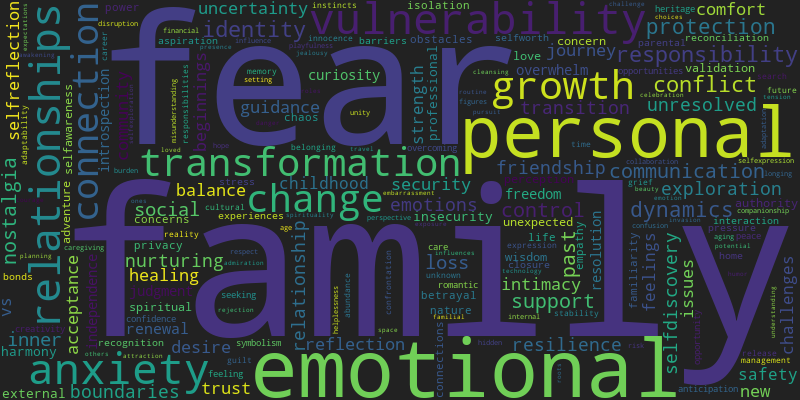
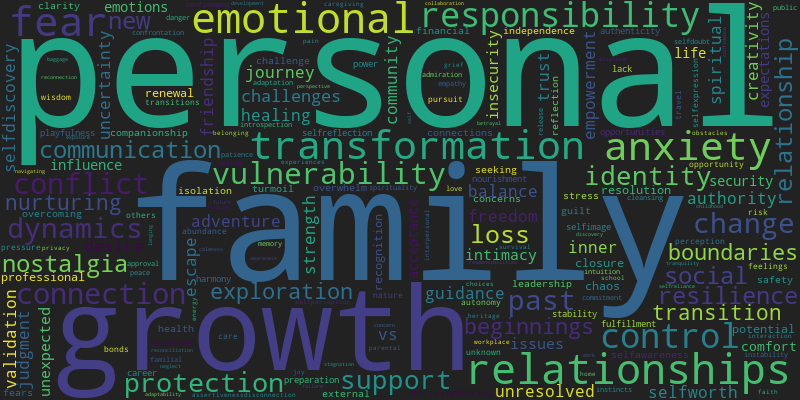
Add files via upload

diff --git a/index.html b/index.html
@@ -1,6 +1,6 @@
 <div style="padding-top: 50px;"></div>
 <h1 style="text-align:center;">Dreamverse State</h1>
-<h2 style="text-align:center;">November 30, 2024</h2>
+<h2 style="text-align:center;">December 31, 2024</h2>
 <div style="padding: 80px;"><html>
     <head>
         <meta charset="utf-8">
@@ -91,8 +91,8 @@
                   
 
                   // parsing and collecting nodes and edges from the python
-                  nodes = new vis.DataSet([{"color": "#CEB637", "font": {"color": "white"}, "id": "nostalgia", "label": "nostalgia", "shape": "dot", "title": "nostalgia"}, {"color": "#CEB637", "font": {"color": "white"}, "id": "aging", "label": "aging", "shape": "dot", "title": "aging"}, {"color": "#CEB637", "font": {"color": "white"}, "id": "reflection", "label": "reflection", "shape": "dot", "title": "reflection"}, {"color": "#CEB637", "font": {"color": "white"}, "id": "friendship", "label": "friendship", "shape": "dot", "title": "friendship"}, {"color": "#46CC15", "font": {"color": "white"}, "id": "vulnerability", "label": "vulnerability", "shape": "dot", "title": "vulnerability"}, {"color": "#C4A4A4", "font": {"color": "white"}, "id": "balance", "label": "balance", "shape": "dot", "title": "balance"}, {"color": "#C4A4A4", "font": {"color": "white"}, "id": "harmony", "label": "harmony", "shape": "dot", "title": "harmony"}, {"color": "#E84917", "font": {"color": "white"}, "id": "personal growth", "label": "personal growth", "shape": "dot", "title": "personal growth"}, {"color": "#E84917", "font": {"color": "white"}, "id": "transformation", "label": "transformation", "shape": "dot", "title": "transformation"}, {"color": "#E84917", "font": {"color": "white"}, "id": "selfdiscovery", "label": "selfdiscovery", "shape": "dot", "title": "selfdiscovery"}, {"color": "#E84917", "font": {"color": "white"}, "id": "past relationships", "label": "past relationships", "shape": "dot", "title": "past relationships"}, {"color": "#E84917", "font": {"color": "white"}, "id": "identity", "label": "identity", "shape": "dot", "title": "identity"}, {"color": "#10C3CB", "font": {"color": "white"}, "id": "transition", "label": "transition", "shape": "dot", "title": "transition"}, {"color": "#46CC15", "font": {"color": "white"}, "id": "boundaries", "label": "boundaries", "shape": "dot", "title": "boundaries"}, {"color": "#10C3CB", "font": {"color": "white"}, "id": "fear", "label": "fear", "shape": "dot", "title": "fear"}, {"color": "#10C3CB", "font": {"color": "white"}, "id": "control", "label": "control", "shape": "dot", "title": "control"}, {"color": "#10C3CB", "font": {"color": "white"}, "id": "protection", "label": "protection", "shape": "dot", "title": "protection"}, {"color": "#46CC15", "font": {"color": "white"}, "id": "relationships", "label": "relationships", "shape": "dot", "title": "relationships"}, {"color": "#10C3CB", "font": {"color": "white"}, "id": "family", "label": "family", "shape": "dot", "title": "family"}, {"color": "#10C3CB", "font": {"color": "white"}, "id": "anxiety", "label": "anxiety", "shape": "dot", "title": "anxiety"}, {"color": "#46CC15", "font": {"color": "white"}, "id": "betrayal", "label": "betrayal", "shape": "dot", "title": "betrayal"}, {"color": "#46CC15", "font": {"color": "white"}, "id": "insecurity", "label": "insecurity", "shape": "dot", "title": "insecurity"}, {"color": "#46CC15", "font": {"color": "white"}, "id": "exploration", "label": "exploration", "shape": "dot", "title": "exploration"}, {"color": "#46CC15", "font": {"color": "white"}, "id": "family dynamics", "label": "family dynamics", "shape": "dot", "title": "family dynamics"}, {"color": "#46CC15", "font": {"color": "white"}, "id": "trust", "label": "trust", "shape": "dot", "title": "trust"}, {"color": "#46CC15", "font": {"color": "white"}, "id": "communication", "label": "communication", "shape": "dot", "title": "communication"}, {"color": "#E84917", "font": {"color": "white"}, "id": "renewal", "label": "renewal", "shape": "dot", "title": "renewal"}, {"color": "#E84917", "font": {"color": "white"}, "id": "change", "label": "change", "shape": "dot", "title": "change"}, {"color": "#A8FF41", "font": {"color": "white"}, "id": "responsibility", "label": "responsibility", "shape": "dot", "title": "responsibility"}, {"color": "#A8FF41", "font": {"color": "white"}, "id": "nurturing", "label": "nurturing", "shape": "dot", "title": "nurturing"}, {"color": "#A8FF41", "font": {"color": "white"}, "id": "new beginnings", "label": "new beginnings", "shape": "dot", "title": "new beginnings"}, {"color": "#A8FF41", "font": {"color": "white"}, "id": "growth", "label": "growth", "shape": "dot", "title": "growth"}, {"color": "#E88175", "font": {"color": "white"}, "id": "intimacy", "label": "intimacy", "shape": "dot", "title": "intimacy"}, {"color": "#CEB637", "font": {"color": "white"}, "id": "support", "label": "support", "shape": "dot", "title": "support"}, {"color": "#CEB637", "font": {"color": "white"}, "id": "community", "label": "community", "shape": "dot", "title": "community"}, {"color": "#CEB637", "font": {"color": "white"}, "id": "guidance", "label": "guidance", "shape": "dot", "title": "guidance"}, {"color": "#E88175", "font": {"color": "white"}, "id": "connection", "label": "connection", "shape": "dot", "title": "connection"}, {"color": "#E88175", "font": {"color": "white"}, "id": "desire", "label": "desire", "shape": "dot", "title": "desire"}, {"color": "#46CC15", "font": {"color": "white"}, "id": "relationship dynamics", "label": "relationship dynamics", "shape": "dot", "title": "relationship dynamics"}, {"color": "#10C3CB", "font": {"color": "white"}, "id": "resilience", "label": "resilience", "shape": "dot", "title": "resilience"}, {"color": "#10C3CB", "font": {"color": "white"}, "id": "loss", "label": "loss", "shape": "dot", "title": "loss"}, {"color": "#10C3CB", "font": {"color": "white"}, "id": "memory", "label": "memory", "shape": "dot", "title": "memory"}, {"color": "#10C3CB", "font": {"color": "white"}, "id": "grief", "label": "grief", "shape": "dot", "title": "grief"}, {"color": "#10C3CB", "font": {"color": "white"}, "id": "uncertainty", "label": "uncertainty", "shape": "dot", "title": "uncertainty"}, {"color": "#10C3CB", "font": {"color": "white"}, "id": "journey", "label": "journey", "shape": "dot", "title": "journey"}, {"color": "#10C3CB", "font": {"color": "white"}, "id": "security", "label": "security", "shape": "dot", "title": "security"}, {"color": "#46CC15", "font": {"color": "white"}, "id": "jealousy", "label": "jealousy", "shape": "dot", "title": "jealousy"}]);
-                  edges = new vis.DataSet([{"from": "nostalgia", "to": "aging", "value": 4}, {"from": "nostalgia", "to": "reflection", "value": 4}, {"from": "nostalgia", "to": "friendship", "value": 5}, {"from": "nostalgia", "to": "vulnerability", "value": 4}, {"from": "friendship", "to": "communication", "value": 4}, {"from": "friendship", "to": "support", "value": 4}, {"from": "friendship", "to": "change", "value": 5}, {"from": "friendship", "to": "anxiety", "value": 5}, {"from": "vulnerability", "to": "transformation", "value": 5}, {"from": "vulnerability", "to": "identity", "value": 6}, {"from": "vulnerability", "to": "transition", "value": 4}, {"from": "vulnerability", "to": "boundaries", "value": 5}, {"from": "vulnerability", "to": "fear", "value": 6}, {"from": "vulnerability", "to": "control", "value": 4}, {"from": "vulnerability", "to": "protection", "value": 11}, {"from": "vulnerability", "to": "relationships", "value": 4}, {"from": "vulnerability", "to": "family", "value": 4}, {"from": "vulnerability", "to": "anxiety", "value": 5}, {"from": "vulnerability", "to": "betrayal", "value": 5}, {"from": "vulnerability", "to": "insecurity", "value": 4}, {"from": "vulnerability", "to": "exploration", "value": 4}, {"from": "vulnerability", "to": "family dynamics", "value": 4}, {"from": "vulnerability", "to": "trust", "value": 4}, {"from": "vulnerability", "to": "communication", "value": 4}, {"from": "balance", "to": "harmony", "value": 4}, {"from": "personal growth", "to": "transformation", "value": 9}, {"from": "personal growth", "to": "selfdiscovery", "value": 6}, {"from": "personal growth", "to": "past relationships", "value": 6}, {"from": "transformation", "to": "protection", "value": 5}, {"from": "transformation", "to": "identity", "value": 6}, {"from": "transformation", "to": "selfdiscovery", "value": 6}, {"from": "transformation", "to": "family", "value": 6}, {"from": "transformation", "to": "renewal", "value": 4}, {"from": "transformation", "to": "change", "value": 4}, {"from": "transformation", "to": "fear", "value": 7}, {"from": "transformation", "to": "responsibility", "value": 4}, {"from": "selfdiscovery", "to": "identity", "value": 5}, {"from": "identity", "to": "transition", "value": 4}, {"from": "identity", "to": "change", "value": 5}, {"from": "transition", "to": "family", "value": 4}, {"from": "transition", "to": "anxiety", "value": 4}, {"from": "boundaries", "to": "intimacy", "value": 4}, {"from": "fear", "to": "control", "value": 6}, {"from": "fear", "to": "protection", "value": 13}, {"from": "fear", "to": "resilience", "value": 5}, {"from": "fear", "to": "family", "value": 10}, {"from": "fear", "to": "anxiety", "value": 6}, {"from": "control", "to": "protection", "value": 7}, {"from": "control", "to": "anxiety", "value": 5}, {"from": "protection", "to": "responsibility", "value": 4}, {"from": "protection", "to": "anxiety", "value": 6}, {"from": "protection", "to": "family", "value": 12}, {"from": "protection", "to": "resilience", "value": 4}, {"from": "protection", "to": "trust", "value": 4}, {"from": "relationships", "to": "exploration", "value": 4}, {"from": "family", "to": "nurturing", "value": 4}, {"from": "family", "to": "responsibility", "value": 8}, {"from": "family", "to": "change", "value": 6}, {"from": "family", "to": "loss", "value": 6}, {"from": "family", "to": "anxiety", "value": 10}, {"from": "family", "to": "security", "value": 4}, {"from": "family", "to": "grief", "value": 4}, {"from": "anxiety", "to": "responsibility", "value": 8}, {"from": "anxiety", "to": "change", "value": 4}, {"from": "anxiety", "to": "resilience", "value": 4}, {"from": "anxiety", "to": "uncertainty", "value": 4}, {"from": "anxiety", "to": "journey", "value": 4}, {"from": "insecurity", "to": "communication", "value": 5}, {"from": "insecurity", "to": "relationship dynamics", "value": 4}, {"from": "insecurity", "to": "jealousy", "value": 4}, {"from": "communication", "to": "responsibility", "value": 4}, {"from": "responsibility", "to": "nurturing", "value": 8}, {"from": "responsibility", "to": "new beginnings", "value": 5}, {"from": "nurturing", "to": "new beginnings", "value": 4}, {"from": "nurturing", "to": "growth", "value": 5}, {"from": "new beginnings", "to": "growth", "value": 4}, {"from": "intimacy", "to": "connection", "value": 4}, {"from": "intimacy", "to": "desire", "value": 4}, {"from": "support", "to": "community", "value": 6}, {"from": "support", "to": "guidance", "value": 4}, {"from": "connection", "to": "desire", "value": 4}, {"from": "loss", "to": "memory", "value": 4}, {"from": "loss", "to": "grief", "value": 4}, {"from": "uncertainty", "to": "journey", "value": 4}]);
+                  nodes = new vis.DataSet([{"color": "#87EF12", "font": {"color": "white"}, "id": "control", "label": "control", "shape": "dot", "title": "control"}, {"color": "#87EF12", "font": {"color": "white"}, "id": "anxiety", "label": "anxiety", "shape": "dot", "title": "anxiety"}, {"color": "#4FFEAD", "font": {"color": "white"}, "id": "vulnerability", "label": "vulnerability", "shape": "dot", "title": "vulnerability"}, {"color": "#D1F29B", "font": {"color": "white"}, "id": "responsibility", "label": "responsibility", "shape": "dot", "title": "responsibility"}, {"color": "#87EF12", "font": {"color": "white"}, "id": "protection", "label": "protection", "shape": "dot", "title": "protection"}, {"color": "#6106DE", "font": {"color": "white"}, "id": "loss", "label": "loss", "shape": "dot", "title": "loss"}, {"color": "#87EF12", "font": {"color": "white"}, "id": "resilience", "label": "resilience", "shape": "dot", "title": "resilience"}, {"color": "#87EF12", "font": {"color": "white"}, "id": "fear", "label": "fear", "shape": "dot", "title": "fear"}, {"color": "#610D21", "font": {"color": "white"}, "id": "authority", "label": "authority", "shape": "dot", "title": "authority"}, {"color": "#610D21", "font": {"color": "white"}, "id": "leadership", "label": "leadership", "shape": "dot", "title": "leadership"}, {"color": "#610D21", "font": {"color": "white"}, "id": "guidance", "label": "guidance", "shape": "dot", "title": "guidance"}, {"color": "#87EF12", "font": {"color": "white"}, "id": "confinement", "label": "confinement", "shape": "dot", "title": "confinement"}, {"color": "#87EF12", "font": {"color": "white"}, "id": "chaos", "label": "chaos", "shape": "dot", "title": "chaos"}, {"color": "#87EF12", "font": {"color": "white"}, "id": "challenge", "label": "challenge", "shape": "dot", "title": "challenge"}, {"color": "#87EF12", "font": {"color": "white"}, "id": "uncertainty", "label": "uncertainty", "shape": "dot", "title": "uncertainty"}, {"color": "#87EF12", "font": {"color": "white"}, "id": "instability", "label": "instability", "shape": "dot", "title": "instability"}, {"color": "#F1FA23", "font": {"color": "white"}, "id": "transformation", "label": "transformation", "shape": "dot", "title": "transformation"}, {"color": "#87EF12", "font": {"color": "white"}, "id": "isolation", "label": "isolation", "shape": "dot", "title": "isolation"}, {"color": "#F1FA23", "font": {"color": "white"}, "id": "escape", "label": "escape", "shape": "dot", "title": "escape"}, {"color": "#6106DE", "font": {"color": "white"}, "id": "family", "label": "family", "shape": "dot", "title": "family"}, {"color": "#F1FA23", "font": {"color": "white"}, "id": "change", "label": "change", "shape": "dot", "title": "change"}, {"color": "#F1FA23", "font": {"color": "white"}, "id": "growth", "label": "growth", "shape": "dot", "title": "growth"}, {"color": "#610D21", "font": {"color": "white"}, "id": "support", "label": "support", "shape": "dot", "title": "support"}, {"color": "#9D50AC", "font": {"color": "white"}, "id": "danger", "label": "danger", "shape": "dot", "title": "danger"}, {"color": "#F1FA23", "font": {"color": "white"}, "id": "relationships", "label": "relationships", "shape": "dot", "title": "relationships"}, {"color": "#87EF12", "font": {"color": "white"}, "id": "transition", "label": "transition", "shape": "dot", "title": "transition"}, {"color": "#87EF12", "font": {"color": "white"}, "id": "motherhood", "label": "motherhood", "shape": "dot", "title": "motherhood"}, {"color": "#87EF12", "font": {"color": "white"}, "id": "safety", "label": "safety", "shape": "dot", "title": "safety"}, {"color": "#87EF12", "font": {"color": "white"}, "id": "loss control", "label": "loss control", "shape": "dot", "title": "loss control"}, {"color": "#F1FA23", "font": {"color": "white"}, "id": "personal growth", "label": "personal growth", "shape": "dot", "title": "personal growth"}, {"color": "#F1FA23", "font": {"color": "white"}, "id": "inner conflict", "label": "inner conflict", "shape": "dot", "title": "inner conflict"}, {"color": "#F1FA23", "font": {"color": "white"}, "id": "nostalgia", "label": "nostalgia", "shape": "dot", "title": "nostalgia"}, {"color": "#F1FA23", "font": {"color": "white"}, "id": "family dynamics", "label": "family dynamics", "shape": "dot", "title": "family dynamics"}, {"color": "#F1FA23", "font": {"color": "white"}, "id": "education", "label": "education", "shape": "dot", "title": "education"}, {"color": "#F1FA23", "font": {"color": "white"}, "id": "identity", "label": "identity", "shape": "dot", "title": "identity"}, {"color": "#F1FA23", "font": {"color": "white"}, "id": "selfdiscovery", "label": "selfdiscovery", "shape": "dot", "title": "selfdiscovery"}, {"color": "#F1FA23", "font": {"color": "white"}, "id": "new beginnings", "label": "new beginnings", "shape": "dot", "title": "new beginnings"}, {"color": "#F1FA23", "font": {"color": "white"}, "id": "nurturing", "label": "nurturing", "shape": "dot", "title": "nurturing"}, {"color": "#D1F29B", "font": {"color": "white"}, "id": "freedom", "label": "freedom", "shape": "dot", "title": "freedom"}, {"color": "#6106DE", "font": {"color": "white"}, "id": "connection", "label": "connection", "shape": "dot", "title": "connection"}, {"color": "#F1FA23", "font": {"color": "white"}, "id": "journey", "label": "journey", "shape": "dot", "title": "journey"}, {"color": "#F1FA23", "font": {"color": "white"}, "id": "healing", "label": "healing", "shape": "dot", "title": "healing"}, {"color": "#F1FA23", "font": {"color": "white"}, "id": "challenges", "label": "challenges", "shape": "dot", "title": "challenges"}, {"color": "#4FFEAD", "font": {"color": "white"}, "id": "communication", "label": "communication", "shape": "dot", "title": "communication"}, {"color": "#4FFEAD", "font": {"color": "white"}, "id": "selfworth", "label": "selfworth", "shape": "dot", "title": "selfworth"}, {"color": "#D1F29B", "font": {"color": "white"}, "id": "adventure", "label": "adventure", "shape": "dot", "title": "adventure"}, {"color": "#D1F29B", "font": {"color": "white"}, "id": "friendship", "label": "friendship", "shape": "dot", "title": "friendship"}, {"color": "#D1F29B", "font": {"color": "white"}, "id": "guilt", "label": "guilt", "shape": "dot", "title": "guilt"}, {"color": "#D1F29B", "font": {"color": "white"}, "id": "community", "label": "community", "shape": "dot", "title": "community"}, {"color": "#D1F29B", "font": {"color": "white"}, "id": "balance", "label": "balance", "shape": "dot", "title": "balance"}, {"color": "#87EF12", "font": {"color": "white"}, "id": "conflict", "label": "conflict", "shape": "dot", "title": "conflict"}, {"color": "#4FFEAD", "font": {"color": "white"}, "id": "exposure", "label": "exposure", "shape": "dot", "title": "exposure"}, {"color": "#4FFEAD", "font": {"color": "white"}, "id": "selfawareness", "label": "selfawareness", "shape": "dot", "title": "selfawareness"}, {"color": "#87EF12", "font": {"color": "white"}, "id": "empowerment", "label": "empowerment", "shape": "dot", "title": "empowerment"}, {"color": "#4FFEAD", "font": {"color": "white"}, "id": "selfimage", "label": "selfimage", "shape": "dot", "title": "selfimage"}, {"color": "#4FFEAD", "font": {"color": "white"}, "id": "boundaries", "label": "boundaries", "shape": "dot", "title": "boundaries"}, {"color": "#4FFEAD", "font": {"color": "white"}, "id": "trust", "label": "trust", "shape": "dot", "title": "trust"}, {"color": "#D1F29B", "font": {"color": "white"}, "id": "personal boundaries", "label": "personal boundaries", "shape": "dot", "title": "personal boundaries"}, {"color": "#4FFEAD", "font": {"color": "white"}, "id": "judgment", "label": "judgment", "shape": "dot", "title": "judgment"}, {"color": "#D1F29B", "font": {"color": "white"}, "id": "decisionmaking", "label": "decisionmaking", "shape": "dot", "title": "decisionmaking"}, {"color": "#610D21", "font": {"color": "white"}, "id": "independence", "label": "independence", "shape": "dot", "title": "independence"}, {"color": "#87EF12", "font": {"color": "white"}, "id": "inner strength", "label": "inner strength", "shape": "dot", "title": "inner strength"}, {"color": "#87EF12", "font": {"color": "white"}, "id": "overcoming challenges", "label": "overcoming challenges", "shape": "dot", "title": "overcoming challenges"}, {"color": "#6106DE", "font": {"color": "white"}, "id": "acceptance", "label": "acceptance", "shape": "dot", "title": "acceptance"}, {"color": "#6106DE", "font": {"color": "white"}, "id": "intuition", "label": "intuition", "shape": "dot", "title": "intuition"}, {"color": "#6106DE", "font": {"color": "white"}, "id": "grief", "label": "grief", "shape": "dot", "title": "grief"}, {"color": "#4FFEAD", "font": {"color": "white"}, "id": "betrayal", "label": "betrayal", "shape": "dot", "title": "betrayal"}, {"color": "#D1F29B", "font": {"color": "white"}, "id": "creativity", "label": "creativity", "shape": "dot", "title": "creativity"}, {"color": "#4FFEAD", "font": {"color": "white"}, "id": "insecurity", "label": "insecurity", "shape": "dot", "title": "insecurity"}, {"color": "#9D50AC", "font": {"color": "white"}, "id": "stress", "label": "stress", "shape": "dot", "title": "stress"}, {"color": "#9D50AC", "font": {"color": "white"}, "id": "threat", "label": "threat", "shape": "dot", "title": "threat"}, {"color": "#F1FA23", "font": {"color": "white"}, "id": "clarity", "label": "clarity", "shape": "dot", "title": "clarity"}, {"color": "#F1FA23", "font": {"color": "white"}, "id": "memory", "label": "memory", "shape": "dot", "title": "memory"}, {"color": "#87EF12", "font": {"color": "white"}, "id": "music", "label": "music", "shape": "dot", "title": "music"}, {"color": "#4FFEAD", "font": {"color": "white"}, "id": "recognition", "label": "recognition", "shape": "dot", "title": "recognition"}, {"color": "#D1F29B", "font": {"color": "white"}, "id": "nourishment", "label": "nourishment", "shape": "dot", "title": "nourishment"}, {"color": "#D1F29B", "font": {"color": "white"}, "id": "abundance", "label": "abundance", "shape": "dot", "title": "abundance"}]);
+                  edges = new vis.DataSet([{"from": "control", "to": "anxiety", "value": 4}, {"from": "control", "to": "vulnerability", "value": 8}, {"from": "control", "to": "responsibility", "value": 6}, {"from": "control", "to": "protection", "value": 5}, {"from": "control", "to": "loss", "value": 4}, {"from": "control", "to": "resilience", "value": 3}, {"from": "control", "to": "fear", "value": 5}, {"from": "anxiety", "to": "fear", "value": 7}, {"from": "anxiety", "to": "vulnerability", "value": 6}, {"from": "anxiety", "to": "support", "value": 3}, {"from": "anxiety", "to": "danger", "value": 3}, {"from": "anxiety", "to": "resilience", "value": 3}, {"from": "anxiety", "to": "relationships", "value": 3}, {"from": "anxiety", "to": "change", "value": 5}, {"from": "anxiety", "to": "transition", "value": 4}, {"from": "anxiety", "to": "responsibility", "value": 8}, {"from": "anxiety", "to": "motherhood", "value": 3}, {"from": "anxiety", "to": "protection", "value": 7}, {"from": "anxiety", "to": "safety", "value": 3}, {"from": "anxiety", "to": "loss", "value": 4}, {"from": "anxiety", "to": "family", "value": 5}, {"from": "anxiety", "to": "loss control", "value": 3}, {"from": "anxiety", "to": "personal growth", "value": 3}, {"from": "vulnerability", "to": "fear", "value": 6}, {"from": "vulnerability", "to": "personal growth", "value": 5}, {"from": "vulnerability", "to": "transformation", "value": 6}, {"from": "vulnerability", "to": "new beginnings", "value": 3}, {"from": "vulnerability", "to": "family", "value": 3}, {"from": "vulnerability", "to": "responsibility", "value": 5}, {"from": "vulnerability", "to": "exposure", "value": 4}, {"from": "vulnerability", "to": "identity", "value": 3}, {"from": "vulnerability", "to": "selfawareness", "value": 3}, {"from": "vulnerability", "to": "protection", "value": 10}, {"from": "vulnerability", "to": "communication", "value": 4}, {"from": "vulnerability", "to": "empowerment", "value": 3}, {"from": "vulnerability", "to": "conflict", "value": 3}, {"from": "vulnerability", "to": "selfworth", "value": 3}, {"from": "vulnerability", "to": "selfimage", "value": 3}, {"from": "vulnerability", "to": "boundaries", "value": 3}, {"from": "vulnerability", "to": "trust", "value": 4}, {"from": "vulnerability", "to": "personal boundaries", "value": 3}, {"from": "vulnerability", "to": "support", "value": 3}, {"from": "vulnerability", "to": "judgment", "value": 3}, {"from": "vulnerability", "to": "resilience", "value": 3}, {"from": "responsibility", "to": "fear", "value": 3}, {"from": "responsibility", "to": "personal growth", "value": 5}, {"from": "responsibility", "to": "transformation", "value": 3}, {"from": "responsibility", "to": "new beginnings", "value": 3}, {"from": "responsibility", "to": "family", "value": 5}, {"from": "responsibility", "to": "selfworth", "value": 3}, {"from": "responsibility", "to": "nurturing", "value": 3}, {"from": "responsibility", "to": "adventure", "value": 3}, {"from": "responsibility", "to": "friendship", "value": 3}, {"from": "responsibility", "to": "freedom", "value": 4}, {"from": "responsibility", "to": "guilt", "value": 5}, {"from": "responsibility", "to": "community", "value": 3}, {"from": "responsibility", "to": "balance", "value": 4}, {"from": "responsibility", "to": "support", "value": 4}, {"from": "responsibility", "to": "communication", "value": 3}, {"from": "responsibility", "to": "protection", "value": 6}, {"from": "responsibility", "to": "transition", "value": 3}, {"from": "responsibility", "to": "leadership", "value": 4}, {"from": "responsibility", "to": "identity", "value": 3}, {"from": "responsibility", "to": "conflict", "value": 3}, {"from": "responsibility", "to": "growth", "value": 4}, {"from": "protection", "to": "fear", "value": 9}, {"from": "protection", "to": "family", "value": 5}, {"from": "protection", "to": "resilience", "value": 3}, {"from": "protection", "to": "communication", "value": 3}, {"from": "protection", "to": "decisionmaking", "value": 3}, {"from": "protection", "to": "empowerment", "value": 5}, {"from": "protection", "to": "conflict", "value": 4}, {"from": "protection", "to": "transition", "value": 5}, {"from": "protection", "to": "music", "value": 3}, {"from": "protection", "to": "safety", "value": 3}, {"from": "protection", "to": "motherhood", "value": 3}, {"from": "protection", "to": "change", "value": 3}, {"from": "protection", "to": "instability", "value": 3}, {"from": "loss", "to": "fear", "value": 4}, {"from": "loss", "to": "family", "value": 5}, {"from": "loss", "to": "connection", "value": 4}, {"from": "loss", "to": "trust", "value": 3}, {"from": "loss", "to": "nostalgia", "value": 3}, {"from": "loss", "to": "grief", "value": 3}, {"from": "resilience", "to": "fear", "value": 3}, {"from": "resilience", "to": "transformation", "value": 4}, {"from": "resilience", "to": "adventure", "value": 3}, {"from": "resilience", "to": "inner strength", "value": 4}, {"from": "resilience", "to": "overcoming challenges", "value": 4}, {"from": "resilience", "to": "growth", "value": 3}, {"from": "resilience", "to": "conflict", "value": 3}, {"from": "fear", "to": "confinement", "value": 3}, {"from": "fear", "to": "chaos", "value": 3}, {"from": "fear", "to": "challenge", "value": 3}, {"from": "fear", "to": "uncertainty", "value": 4}, {"from": "fear", "to": "instability", "value": 3}, {"from": "fear", "to": "transformation", "value": 4}, {"from": "fear", "to": "isolation", "value": 3}, {"from": "fear", "to": "escape", "value": 4}, {"from": "fear", "to": "family", "value": 3}, {"from": "fear", "to": "change", "value": 4}, {"from": "fear", "to": "growth", "value": 3}, {"from": "authority", "to": "leadership", "value": 4}, {"from": "authority", "to": "guidance", "value": 4}, {"from": "leadership", "to": "recognition", "value": 3}, {"from": "guidance", "to": "support", "value": 3}, {"from": "uncertainty", "to": "transition", "value": 3}, {"from": "instability", "to": "transition", "value": 3}, {"from": "transformation", "to": "inner conflict", "value": 3}, {"from": "transformation", "to": "personal growth", "value": 7}, {"from": "transformation", "to": "selfdiscovery", "value": 3}, {"from": "transformation", "to": "nostalgia", "value": 3}, {"from": "transformation", "to": "freedom", "value": 4}, {"from": "transformation", "to": "escape", "value": 4}, {"from": "transformation", "to": "connection", "value": 3}, {"from": "transformation", "to": "journey", "value": 3}, {"from": "transformation", "to": "identity", "value": 5}, {"from": "transformation", "to": "change", "value": 11}, {"from": "transformation", "to": "relationships", "value": 3}, {"from": "transformation", "to": "growth", "value": 5}, {"from": "transformation", "to": "new beginnings", "value": 3}, {"from": "transformation", "to": "healing", "value": 4}, {"from": "transformation", "to": "support", "value": 3}, {"from": "transformation", "to": "nurturing", "value": 3}, {"from": "transformation", "to": "challenges", "value": 3}, {"from": "family", "to": "support", "value": 3}, {"from": "family", "to": "communication", "value": 4}, {"from": "family", "to": "connection", "value": 4}, {"from": "change", "to": "personal growth", "value": 3}, {"from": "change", "to": "adventure", "value": 3}, {"from": "change", "to": "clarity", "value": 3}, {"from": "change", "to": "identity", "value": 6}, {"from": "change", "to": "relationships", "value": 3}, {"from": "change", "to": "growth", "value": 4}, {"from": "change", "to": "freedom", "value": 3}, {"from": "change", "to": "transition", "value": 5}, {"from": "growth", "to": "new beginnings", "value": 4}, {"from": "growth", "to": "nurturing", "value": 3}, {"from": "support", "to": "relationships", "value": 3}, {"from": "support", "to": "independence", "value": 3}, {"from": "danger", "to": "stress", "value": 3}, {"from": "relationships", "to": "personal growth", "value": 3}, {"from": "personal growth", "to": "nostalgia", "value": 5}, {"from": "personal growth", "to": "family dynamics", "value": 3}, {"from": "personal growth", "to": "education", "value": 3}, {"from": "personal growth", "to": "identity", "value": 3}, {"from": "personal growth", "to": "selfdiscovery", "value": 3}, {"from": "personal growth", "to": "new beginnings", "value": 3}, {"from": "personal growth", "to": "nurturing", "value": 3}, {"from": "nostalgia", "to": "adventure", "value": 3}, {"from": "nostalgia", "to": "memory", "value": 3}, {"from": "identity", "to": "new beginnings", "value": 3}, {"from": "selfdiscovery", "to": "adventure", "value": 3}, {"from": "new beginnings", "to": "nurturing", "value": 5}, {"from": "nurturing", "to": "connection", "value": 3}, {"from": "freedom", "to": "adventure", "value": 5}, {"from": "freedom", "to": "balance", "value": 3}, {"from": "connection", "to": "acceptance", "value": 3}, {"from": "connection", "to": "intuition", "value": 3}, {"from": "communication", "to": "selfimage", "value": 3}, {"from": "communication", "to": "trust", "value": 3}, {"from": "selfworth", "to": "insecurity", "value": 3}, {"from": "selfworth", "to": "recognition", "value": 3}, {"from": "friendship", "to": "decisionmaking", "value": 3}, {"from": "friendship", "to": "personal boundaries", "value": 4}, {"from": "community", "to": "creativity", "value": 3}, {"from": "balance", "to": "nourishment", "value": 3}, {"from": "selfimage", "to": "insecurity", "value": 3}, {"from": "trust", "to": "betrayal", "value": 3}, {"from": "stress", "to": "threat", "value": 3}, {"from": "nourishment", "to": "abundance", "value": 3}]);
 
                   nodeColors = {};
                   allNodes = nodes.get({ returnType: "Object" });
@@ -193,57 +193,70 @@
     
 <br>
 <h1>Initial Reflection</h1>
-<h2>The Dreamverse is a mirror of the human psyche, where clusters of dream themes form constellations representing shared human experiences. Each constellation invites us to explore profound psychological and societal insights, illuminating the interconnectedness of our inner and outer worlds. Let us unravel these constellations, seeking meaning and growth within their symbolic unity.</h2>
+<h2>
+As we conclude 2024, these dream themes form a mosaic of the collective unconscious, reflecting the psychological and spiritual journey of humanity. Each constellation offers insights into our shared struggles, triumphs, and transformations. They resonate with ancient archetypes, reminding us that our individual paths are intertwined with the greater narrative of existence. Let us explore these constellations and their profound connections to the human psyche.
+</h2>
 <br>
 
 <details>
-  <summary><h1>The Constellation of Nostalgia and Community</h1></summary>
-  <h2>This constellation speaks of the deep human need for connection, memory, and shared experiences. Themes of nostalgia, aging, and reflection highlight the significance of looking back to understand the present, while friendship, support, and community underscore the web of relationships that sustain us. This cluster represents the archetype of the Elder or the Wise One, guiding us to find wisdom in our experiences and the communities that shape our identity. Psychologically, it reflects a longing for grounding and continuity, urging Seers to cherish their networks and seek mentors and friends who offer both guidance and solace.</h2>
+  <summary><h1>The Fortress of Inner Strength</h1></summary>
+  <h2>
+    Themes such as 'control,' 'anxiety,' 'protection,' and 'resilience' weave a tale of navigating chaos and uncertainty. This constellation reflects the human need for stability in the face of external turmoil and inner fear. 'Motherhood,' 'safety,' and 'empowerment' symbolize the nurturing aspect of protection, while 'loss control' and 'isolation' reveal the vulnerability intrinsic to significant transitions. 'Music' acts as an anchor, a reminder of harmony amidst discord. This cluster speaks to the journey of cultivating resilience and finding balance between control and surrender. It inspires us to reflect on our strategies for coping with life's inevitable challenges and to embrace growth through adversity.
+  </h2>
 </details>
 <br>
 
 <details>
-  <summary><h1>The Constellation of Vulnerability and Trust</h1></summary>
-  <h2>The delicate interplay of vulnerability, boundaries, and relationships defines this constellation. Themes of betrayal, insecurity, and jealousy intermingle with trust, communication, and family dynamics, highlighting the complexity of human intimacy. This cluster represents the Lover archetype, where deep emotional connections are a source of both strength and turmoil. Psychologically, it invites Seers to examine their relationships, assess their emotional boundaries, and nurture the courage to be vulnerable while discerning when to protect themselves. It teaches that trust is the bedrock of meaningful relationships and that communication is its bridge.</h2>
+  <summary><h1>The Mirror of Vulnerability</h1></summary>
+  <h2>
+    The themes of 'vulnerability,' 'self-worth,' 'communication,' and 'boundaries' converge to highlight the delicate dance of trust and exposure. This constellation delves into the rawness of human connection, where 'betrayal' and 'judgment' confront 'self-awareness' and 'trust.' It reflects the tension between the desire to be seen and the fear of being misunderstood or harmed. These themes encourage introspection on how we navigate our relationships with others and ourselves, underscoring the importance of establishing boundaries as acts of self-love and personal growth.
+  </h2>
 </details>
 <br>
 
 <details>
-  <summary><h1>The Constellation of Balance and Harmony</h1></summary>
-  <h2>This constellation, simple yet profound, encapsulates the quest for equilibrium in life. Themes of balance and harmony resonate as a call to align inner and outer worlds. It represents the archetype of the Mediator or the Harmonizer, urging Seers to integrate conflicting parts of their psyche and foster peace in their surroundings. This constellation reflects the universal principle of interconnectedness and the necessity of maintaining rhythm in the dance of life.</h2>
+  <summary><h1>The Garden of Freedom and Responsibility</h1></summary>
+  <h2>
+    This constellation, with themes like 'responsibility,' 'freedom,' 'adventure,' and 'community,' illustrates the interplay between individuality and interdependence. 'Guilt' and 'personal boundaries' point to the emotional labor of maintaining harmony within the self and with others. Meanwhile, 'nourishment' and 'abundance' represent the rewards of creativity and balance. This cluster invites Seers to consider how they reconcile personal desires with collective responsibilities, urging them to find joy in the art of balance and the spirit of shared adventure.
+  </h2>
 </details>
 <br>
 
 <details>
-  <summary><h1>The Constellation of Transformation and Identity</h1></summary>
-  <h2>Personal growth, transformation, and self-discovery lie at the heart of this constellation, intertwined with themes of past relationships, identity, and renewal. This is the Hero’s Journey within the Dreamverse, where the Seer is called to confront their shadows and evolve. It emphasizes the psychological importance of embracing change and the courage required to redefine oneself. This cluster challenges Seers to revisit their past, understand its impact on their present, and envision a future of authentic self-expression.</h2>
+  <summary><h1>The Web of Loss and Connection</h1></summary>
+  <h2>
+    Themes of 'loss,' 'family,' 'connection,' and 'grief' form a poignant constellation that explores the depths of human relationships. 'Intuition' and 'acceptance' offer guidance through the healing process, suggesting that grief is both a personal and collective journey. This cluster embodies the bittersweet essence of connection—how love and loss are inseparably intertwined. It inspires reflection on how we honor what we have lost while nurturing the bonds that remain, finding solace in shared understanding and compassion.
+  </h2>
 </details>
 <br>
 
 <details>
-  <summary><h1>The Constellation of Transition and Resilience</h1></summary>
-  <h2>Themes of transition, fear, control, and resilience converge here, interwoven with family, anxiety, and grief. This constellation represents the archetype of the Wanderer or the Pilgrim, traversing a path fraught with uncertainty. It reflects the universal experience of loss and the resilience it cultivates. Psychologically, it calls Seers to embrace the transient nature of life, finding security within themselves amid external instability. This constellation teaches the value of endurance, the strength of memory, and the transformative power of facing fear.</h2>
+  <summary><h1>The Flame of Leadership</h1></summary>
+  <h2>
+    'Authority,' 'leadership,' 'guidance,' and 'support' converge to create a constellation of responsibility and independence. This cluster speaks to the dual nature of leadership as both a burden and a privilege. It challenges Seers to consider how they lead their own lives and inspire others, underscoring the importance of wisdom, empathy, and the courage to stand alone when necessary. It beckons us to reflect on how we balance independence with the duty to guide and support those who rely on us.
+  </h2>
 </details>
 <br>
 
 <details>
-  <summary><h1>The Constellation of Responsibility and Nurturing</h1></summary>
-  <h2>The constellation of responsibility, nurturing, and growth represents the archetype of the Caregiver. It underscores the importance of cultivating new beginnings with diligence and compassion. This cluster is a reminder of the responsibility inherent in nurturing both oneself and others, fostering personal and collective growth. Psychologically, it challenges Seers to take ownership of their roles in the world, promoting sustainable development and the nurturing of potential, both within and beyond themselves.</h2>
+  <summary><h1>The Spiral of Transformation</h1></summary>
+  <h2>
+    This constellation brims with themes like 'transformation,' 'change,' 'growth,' and 'new beginnings.' It encapsulates the essence of personal evolution, from 'nostalgia' and 'family dynamics' to 'self-discovery' and 'inner conflict.' 'Healing,' 'clarity,' and 'journey' reinforce the cyclical nature of growth—how every end marks a new beginning. This cluster invites Seers to embrace change as an essential aspect of life, encouraging them to nurture their inner selves while acknowledging the lessons of the past.
+  </h2>
 </details>
 <br>
 
 <details>
-  <summary><h1>The Constellation of Intimacy and Desire</h1></summary>
-  <h2>This constellation centers on the magnetic pull of intimacy, connection, and desire. It represents the Lover archetype in its primal form, highlighting the universal yearning for closeness and the transformative power of authentic connections. Psychologically, it invites Seers to explore the depths of their desires, discern their roots, and cultivate relationships that honor both passion and respect.</h2>
+  <summary><h1>The Shadow of Stress and Danger</h1></summary>
+  <h2>
+    Themes of 'danger,' 'stress,' and 'threat' form a stark constellation that highlights the primal aspects of the psyche. This cluster reflects the human response to perceived dangers, both real and imagined. It serves as a reminder of the importance of recognizing stressors and developing strategies to mitigate their impact. It calls on Seers to confront their fears and transform them into sources of strength and awareness.
+  </h2>
 </details>
 <br>
 
-<details>
-  <summary><h1>Final Reflections</h1></summary>
-<h2>The constellations of the Dreamverse serve as mirrors, reflecting facets of our shared humanity. They invite Seers to journey inward, exploring their personal connections to each cluster of themes. Observe which constellations feel closest to your heart and which seem distant. Each represents an opportunity for growth, a lesson waiting to be learned. Reflect on their meaning, and let their wisdom guide you in crafting your own path through the labyrinth of existence.</h2>
-</details>
-<br>
-
+<h2>
+As we step into the new year, reflect on these constellations. Which themes resonate most with your personal journey? How have they shaped your path, and where might they guide you next? Observe how the constellations intertwine in your life, illuminating the distance or closeness between them. Remember, the Dreamverse is a mirror of our shared humanity—a testament to the interconnectedness of our dreams and realities.
+</h2>
   
 </body>
 </html>
